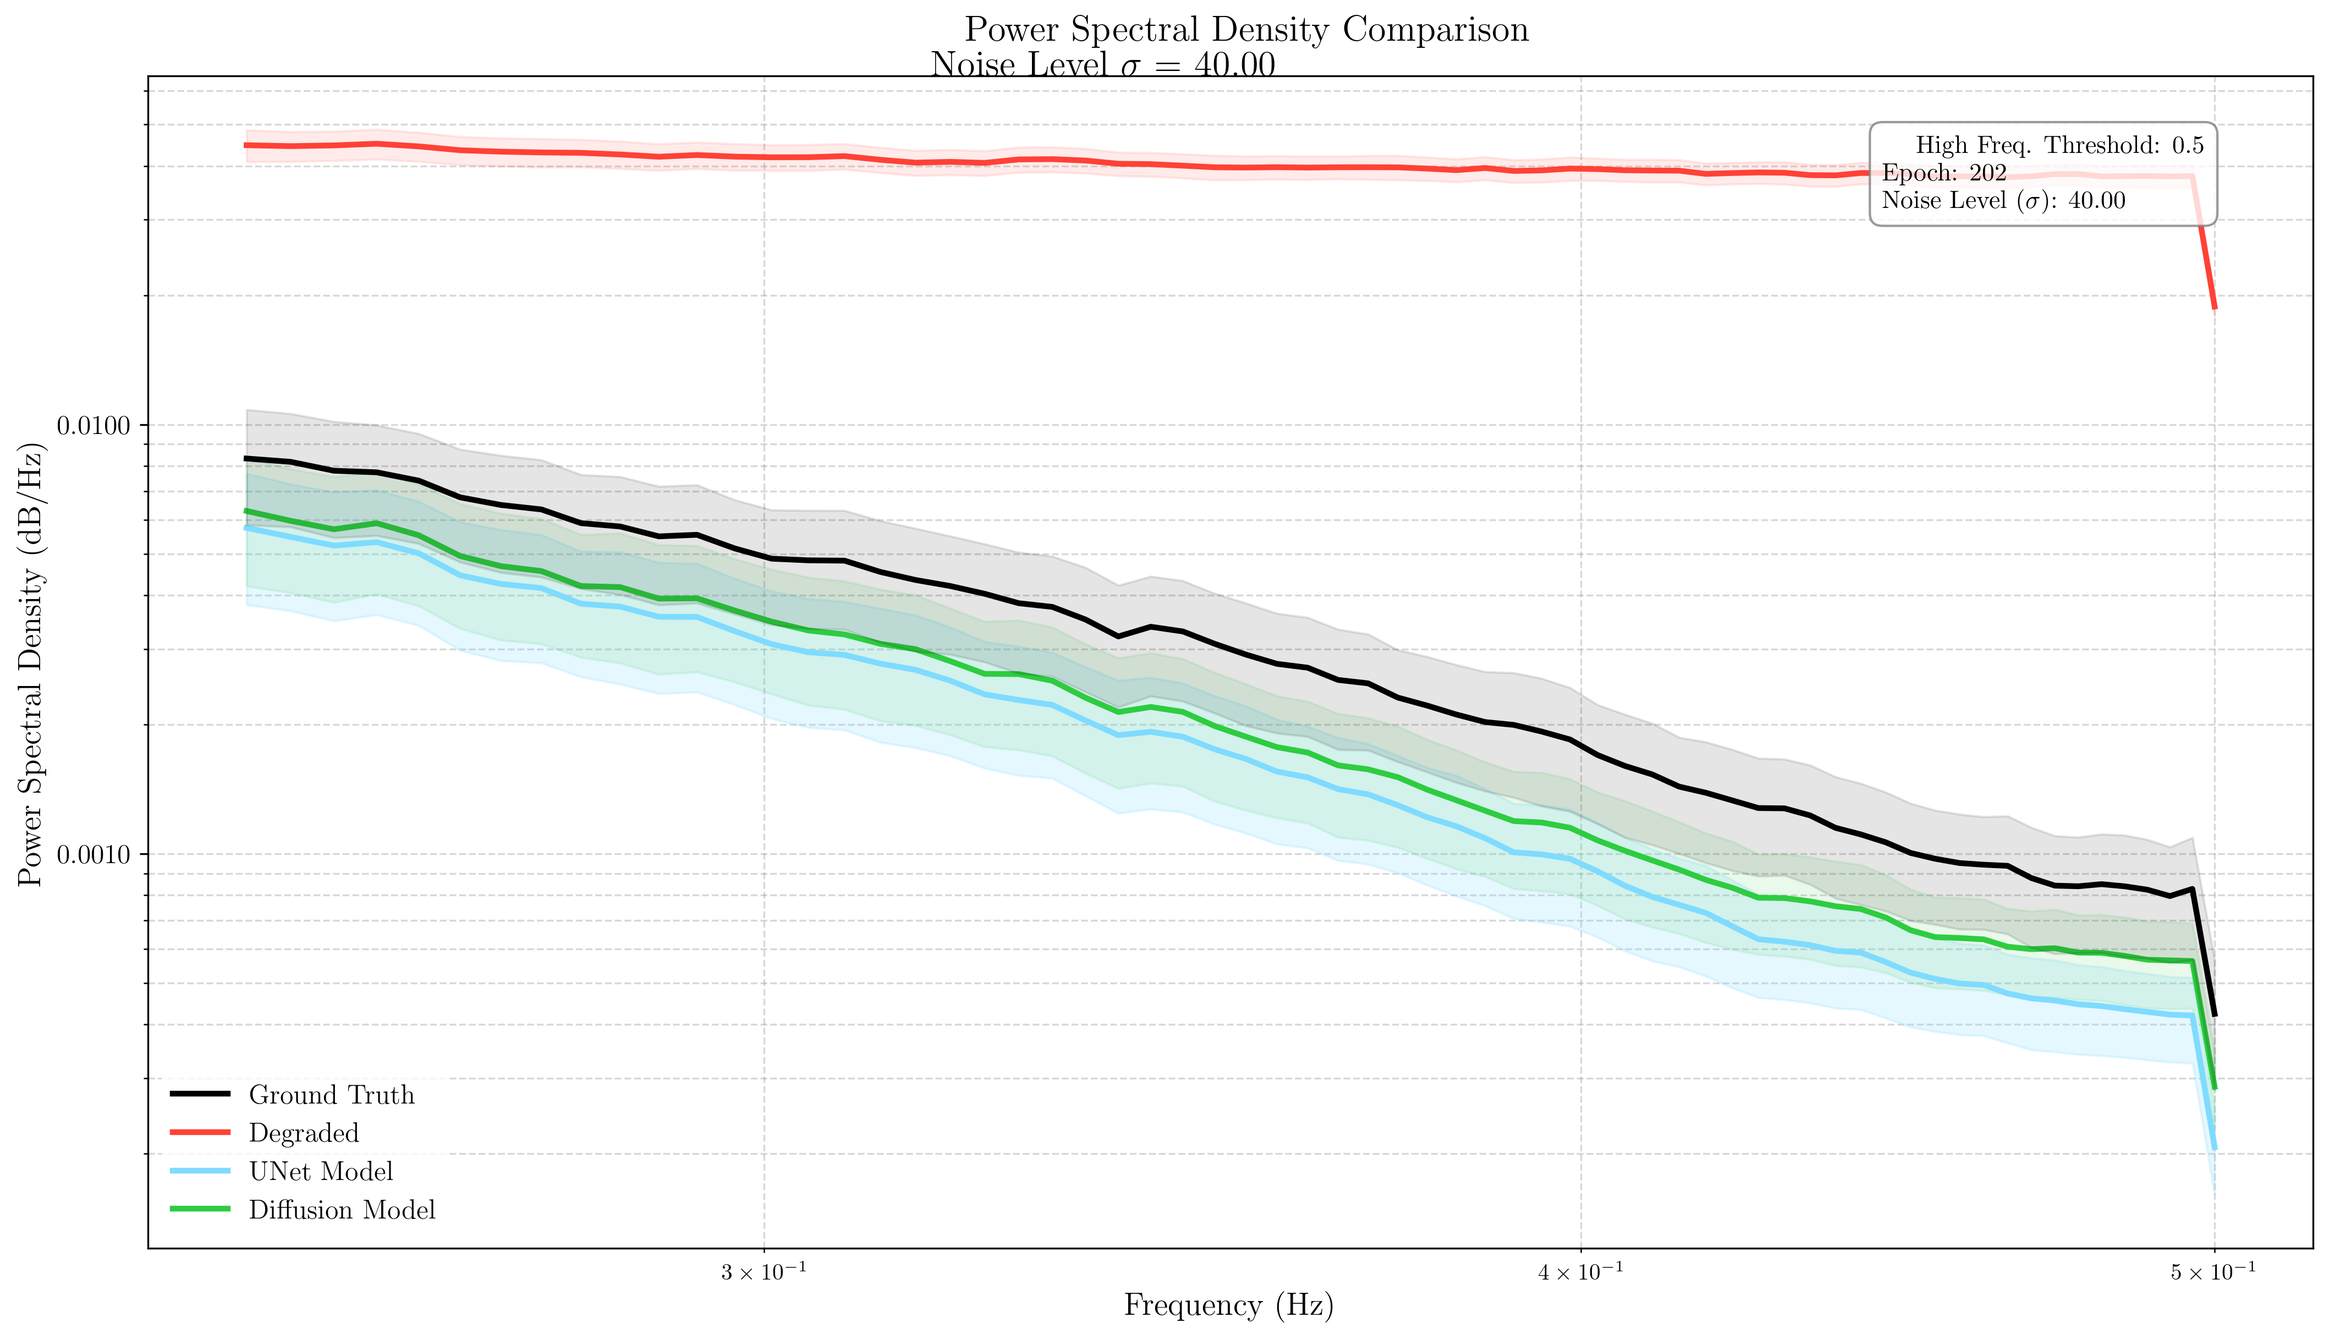
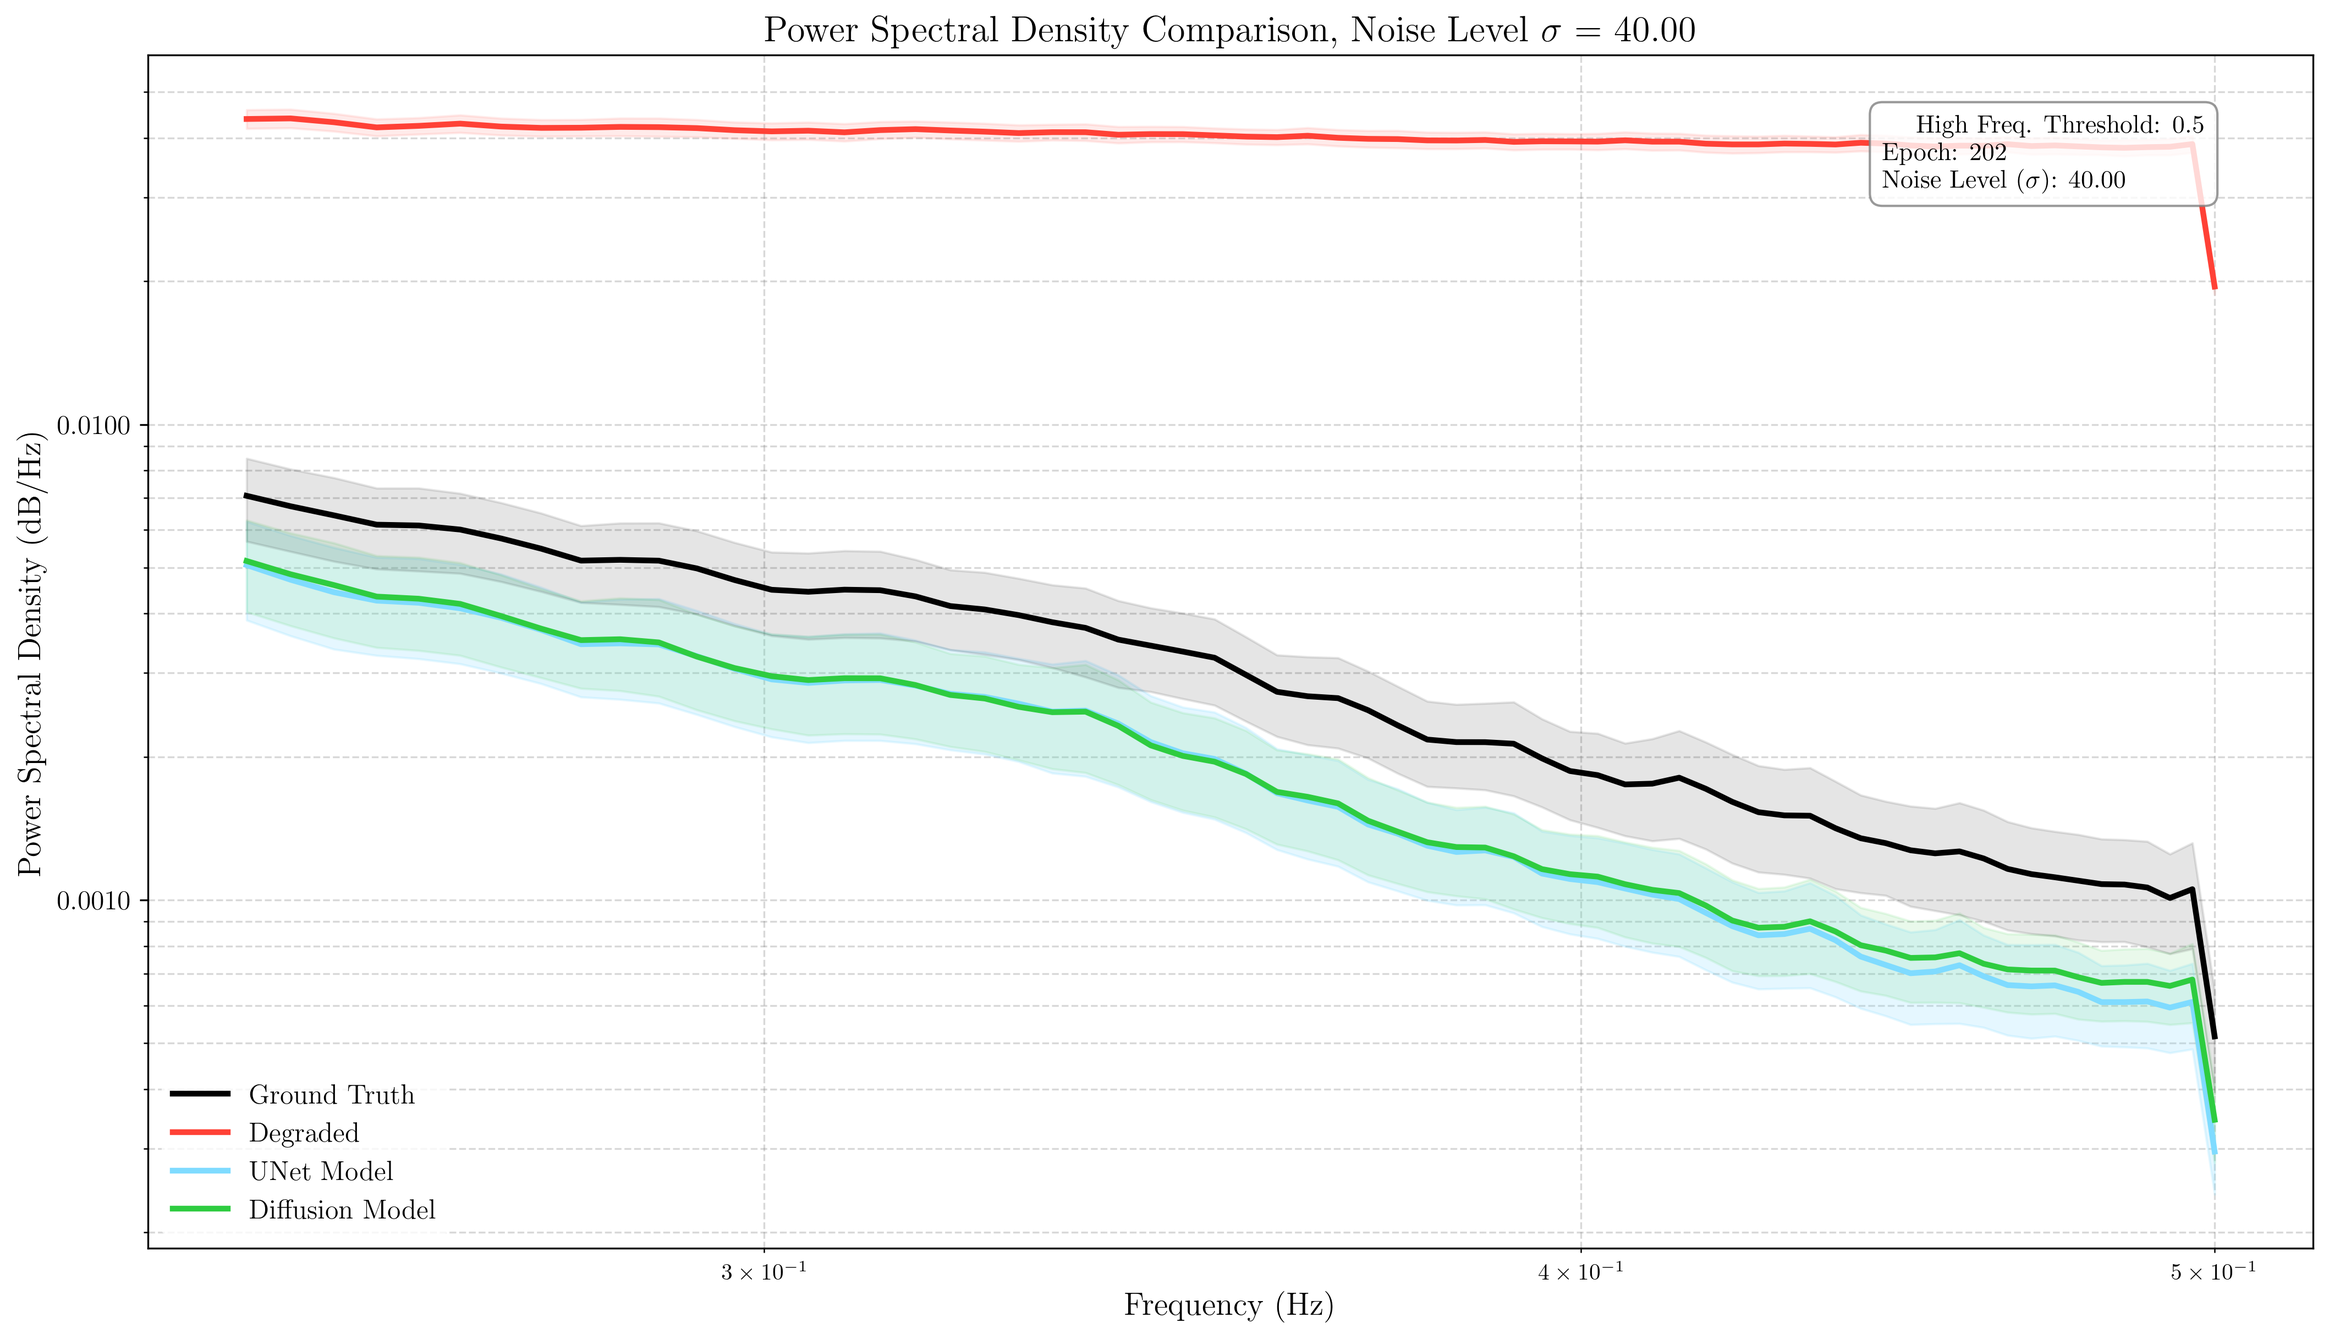
chore: Refactor plot.py to improve image denoising comparison and frequency domain analysis

diff --git a/evaluate_Unet_diffusion/plot.py b/evaluate_Unet_diffusion/plot.py
@@ -56,10 +56,10 @@ def save_example_images(example_images, save_dir):
         for j, (title, img) in enumerate(images_to_plot):
             ax = grid[i*4 + j]
             im = ax.imshow(img, cmap='gray' if img.ndim == 2 else None, vmin=vmin, vmax=vmax)
-            ax.set_title(rf"{title}\\ ($\sigma$ = {sigma})", fontsize=12, fontweight='bold')
+            ax.set_title(rf"{title} ($\sigma = {sigma}$)", fontsize=12, fontweight='bold')
             ax.axis('off')
-            
-    plt.suptitle(r"Image Denoising Comparison Across Noise Levels", fontsize=16, fontweight='bold', y=1)
+         
+    plt.suptitle(r"Image Denoising Comparison Across Noise Levels", fontsize=16, fontweight='bold', y=0.85)
     
     plt.savefig(os.path.join(save_dir, 'example_images_comparison.png'), dpi=300, bbox_inches='tight')
     plt.close()
@@ -305,7 +305,7 @@ def plot_psd_comparison(metrics, last_epoch, save_dir, high_freq_threshold=0.5):
         se_unet = np.std(psd_unet_all, axis=0) / np.sqrt(len(psd_unet_all))
         se_diffusion = np.std(psd_diffusion_all, axis=0) / np.sqrt(len(psd_diffusion_all))
 
-        fig, ax = plt.subplots(figsize=(14, 8), constrained_layout=True)
+        fig, ax = plt.subplots(figsize=(12, 8), constrained_layout=True)
         
         # Plot with error bands
         ax.plot(f_gt[high_freq_idx], avg_psd_gt, label='Ground Truth', color='#000000', linewidth=2.5, zorder=5)
@@ -324,7 +324,7 @@ def plot_psd_comparison(metrics, last_epoch, save_dir, high_freq_threshold=0.5):
         ax.set_ylabel(r'Power Spectral Density (dB/Hz)', fontsize=14, fontweight='bold')
         ax.set_yscale('log')
         ax.set_xscale('log')
-        ax.set_title(rf'Power Spectral Density Comparison\\Noise Level $\sigma$ = {nl:.2f}', fontsize=16, fontweight='bold')
+        ax.set_title(rf'Power Spectral Density Comparison, Noise Level $\sigma$ = {nl:.2f}', fontsize=16, fontweight='bold')
         ax.legend(fontsize=12, loc='lower left', frameon=True, facecolor='white', edgecolor='none')
         ax.grid(True, which="both", ls="--", alpha=0.3, color='gray')
         
@@ -455,3 +455,104 @@ def generate_comparison_plot(metrics, epochs, save_dir, use_bm3d=False):
 
     plt.savefig(os.path.join(save_dir, 'comparison_plot.png'), dpi=300, bbox_inches='tight')
     plt.close(fig)
+
+def save_metrics(metrics, last_epoch, use_bm3d, save_dir):
+    epochs = sorted(set(metrics['epoch']))
+    noise_levels = np.array(metrics['noise_level'])
+    psnr_degraded = np.array(metrics['psnr_degraded'])
+    psnr_diffusion = np.array(metrics['psnr_diffusion'])
+    psnr_unet = np.array(metrics['psnr_unet'])
+    psnr_bm3d = np.array(metrics['psnr_bm3d'])
+    ssim_degraded = np.array(metrics['ssim_degraded'])
+    ssim_diffusion = np.array(metrics['ssim_diffusion'])
+    ssim_unet = np.array(metrics['ssim_unet'])
+    ssim_bm3d = np.array(metrics['ssim_bm3d'])
+    lpips_degraded = np.array(metrics['lpips_degraded'])
+    lpips_diffusion = np.array(metrics['lpips_diffusion'])
+    lpips_unet = np.array(metrics['lpips_unet'])
+    lpips_bm3d = np.array(metrics['lpips_bm3d'])
+
+    unique_noise_levels = sorted(np.unique(noise_levels))
+
+    avg_psnr_degraded = [np.mean(psnr_degraded[noise_levels == nl]) for nl in unique_noise_levels]
+    avg_psnr_diffusion_last = [np.mean(psnr_diffusion[(noise_levels == nl) & (np.array(metrics['epoch']) == last_epoch)]) for nl in unique_noise_levels]
+    avg_psnr_unet = [np.mean(psnr_unet[noise_levels == nl]) for nl in unique_noise_levels]
+    avg_psnr_bm3d = [np.mean(psnr_bm3d[noise_levels == nl]) for nl in unique_noise_levels] if use_bm3d else []
+    avg_ssim_degraded = [np.mean(ssim_degraded[noise_levels == nl]) for nl in unique_noise_levels]
+    avg_ssim_diffusion_last = [np.mean(ssim_diffusion[(noise_levels == nl) & (np.array(metrics['epoch']) == last_epoch)]) for nl in unique_noise_levels]
+    avg_ssim_unet = [np.mean(ssim_unet[noise_levels == nl]) for nl in unique_noise_levels]
+    avg_ssim_bm3d = [np.mean(ssim_bm3d[noise_levels == nl]) for nl in unique_noise_levels] if use_bm3d else []
+    avg_lpips_degraded = [np.mean(lpips_degraded[noise_levels == nl]) for nl in unique_noise_levels]
+    avg_lpips_diffusion_last = [np.mean(lpips_diffusion[(noise_levels == nl) & (np.array(metrics['epoch']) == last_epoch)]) for nl in unique_noise_levels]
+    avg_lpips_unet = [np.mean(lpips_unet[noise_levels == nl]) for nl in unique_noise_levels]
+    avg_lpips_bm3d = [np.mean(lpips_bm3d[noise_levels == nl]) for nl in unique_noise_levels] if use_bm3d else []
+
+    fig, axs = plt.subplots(3, 2, figsize=(20, 18))
+
+    axs[0, 0].plot(unique_noise_levels, avg_psnr_degraded, 'o-', label='Degraded', color='red')
+    axs[0, 0].plot(unique_noise_levels, avg_psnr_unet, 'o-', label='UNet Model', color='purple')
+    axs[0, 0].plot(unique_noise_levels, avg_psnr_diffusion_last, 'o-', label=f'Diffusion Model (Epoch {last_epoch})', color='green')
+    if use_bm3d:
+        axs[0, 0].plot(unique_noise_levels, avg_psnr_bm3d, 'o-', label='BM3D', color='blue')
+    axs[0, 0].set_xlabel('Noise Standard Deviation')
+    axs[0, 0].set_ylabel('PSNR')
+    axs[0, 0].set_title('PSNR value variation curve')
+    axs[0, 0].legend()
+    axs[0, 0].grid()
+
+    axs[1, 0].plot(unique_noise_levels, avg_ssim_degraded, 'o-', label='Degraded', color='red')
+    axs[1, 0].plot(unique_noise_levels, avg_ssim_unet, 'o-', label='UNet Model', color='purple')
+    axs[1, 0].plot(unique_noise_levels, avg_ssim_diffusion_last, 'o-', label=f'Diffusion Model (Epoch {last_epoch})', color='green')
+    if use_bm3d:
+        axs[1, 0].plot(unique_noise_levels, avg_ssim_bm3d, 'o-', label='BM3D', color='blue')
+    axs[1, 0].set_xlabel('Noise Standard Deviation')
+    axs[1, 0].set_ylabel('SSIM')
+    axs[1, 0].set_title('SSIM value variation curve')
+    axs[1, 0].legend()
+    axs[1, 0].grid()
+
+    axs[2, 0].plot(unique_noise_levels, avg_lpips_degraded, 'o-', label='Degraded', color='red')
+    axs[2, 0].plot(unique_noise_levels, avg_lpips_unet, 'o-', label='UNet Model', color='purple')
+    axs[2, 0].plot(unique_noise_levels, avg_lpips_diffusion_last, 'o-', label=f'Diffusion Model (Epoch {last_epoch})', color='green')
+    if use_bm3d:
+        axs[2, 0].plot(unique_noise_levels, avg_lpips_bm3d, 'o-', label='BM3D', color='blue')
+    axs[2, 0].set_xlabel('Noise Standard Deviation')
+    axs[2, 0].set_ylabel('LPIPS')
+    axs[2, 0].set_title('LPIPS value variation curve')
+    axs[2, 0].legend()
+    axs[2, 0].grid()
+
+    colors = ['blue', 'orange', 'cyan', 'magenta', 'black', 'yellow', 'green', 'red']
+    for idx, epoch in enumerate(epochs):
+        epoch_indices = [i for i, e in enumerate(metrics['epoch']) if e == epoch]
+        unique_noise_levels = sorted(np.unique(noise_levels[epoch_indices]))
+
+        avg_psnr_diffusion = [np.mean(psnr_diffusion[epoch_indices][noise_levels[epoch_indices] == nl]) for nl in unique_noise_levels]
+        avg_ssim_diffusion = [np.mean(ssim_diffusion[epoch_indices][noise_levels[epoch_indices] == nl]) for nl in unique_noise_levels]
+        avg_lpips_diffusion = [np.mean(lpips_diffusion[epoch_indices][noise_levels[epoch_indices] == nl]) for nl in unique_noise_levels]
+
+        axs[0, 1].plot(unique_noise_levels, avg_psnr_diffusion, 'o-', label=f'Diffusion Model (Epoch {epoch})', color=colors[idx % len(colors)])
+        axs[1, 1].plot(unique_noise_levels, avg_ssim_diffusion, 'o-', label=f'Diffusion Model (Epoch {epoch})', color=colors[idx % len(colors)])
+        axs[2, 1].plot(unique_noise_levels, avg_lpips_diffusion, 'o-', label=f'Diffusion Model (Epoch {epoch})', color=colors[idx % len(colors)])
+
+    axs[0, 1].set_xlabel('Noise Standard Deviation')
+    axs[0, 1].set_ylabel('PSNR')
+    axs[0, 1].set_title('PSNR value variation curve (Diffusion Model)')
+    axs[0, 1].legend()
+    axs[0, 1].grid()
+
+    axs[1, 1].set_xlabel('Noise Standard Deviation')
+    axs[1, 1].set_ylabel('SSIM')
+    axs[1, 1].set_title('SSIM value variation curve (Diffusion Model)')
+    axs[1, 1].legend()
+    axs[1, 1].grid()
+
+    axs[2, 1].set_xlabel('Noise Standard Deviation')
+    axs[2, 1].set_ylabel('LPIPS')
+    axs[2, 1].set_title('LPIPS value variation curve (Diffusion Model)')
+    axs[2, 1].legend()
+    axs[2, 1].grid()
+
+    plt.tight_layout()
+    plt.savefig(os.path.join(save_dir, 'metrics.png'))
+    plt.close()

diff --git a/evaluate_Unet_diffusion/evaluate_model.py b/evaluate_Unet_diffusion/evaluate_model.py
@@ -9,7 +9,7 @@ from tqdm import tqdm
 import lpips
 from DISTS_pytorch import DISTS
 import time
-from plot import save_dists, save_inference_time_plot, generate_comparison_plot, save_example_images, save_heatmaps, save_histograms_of_differences, save_frequency_domain_analysis, save_frequency_domain_analysis_multiple_epochs, plot_psd_comparison
+from plot import save_dists, save_inference_time_plot, generate_comparison_plot, save_example_images, save_heatmaps, save_histograms_of_differences, save_frequency_domain_analysis, save_frequency_domain_analysis_multiple_epochs, plot_psd_comparison, save_metrics
 
 project_root = os.path.abspath(os.path.join(os.path.dirname(__file__), '..'))
 sys.path.append(project_root)
@@ -305,108 +305,6 @@ def evaluate_model_and_plot(epochs, diffusion_model_paths, unet_model_path, val_
 
     # Generate the comparison plot
     generate_comparison_plot(metrics, epochs, save_dir)
-
-
-def save_metrics(metrics, last_epoch, use_bm3d, save_dir):
-    epochs = sorted(set(metrics['epoch']))
-    noise_levels = np.array(metrics['noise_level'])
-    psnr_degraded = np.array(metrics['psnr_degraded'])
-    psnr_diffusion = np.array(metrics['psnr_diffusion'])
-    psnr_unet = np.array(metrics['psnr_unet'])
-    psnr_bm3d = np.array(metrics['psnr_bm3d'])
-    ssim_degraded = np.array(metrics['ssim_degraded'])
-    ssim_diffusion = np.array(metrics['ssim_diffusion'])
-    ssim_unet = np.array(metrics['ssim_unet'])
-    ssim_bm3d = np.array(metrics['ssim_bm3d'])
-    lpips_degraded = np.array(metrics['lpips_degraded'])
-    lpips_diffusion = np.array(metrics['lpips_diffusion'])
-    lpips_unet = np.array(metrics['lpips_unet'])
-    lpips_bm3d = np.array(metrics['lpips_bm3d'])
-
-    unique_noise_levels = sorted(np.unique(noise_levels))
-
-    avg_psnr_degraded = [np.mean(psnr_degraded[noise_levels == nl]) for nl in unique_noise_levels]
-    avg_psnr_diffusion_last = [np.mean(psnr_diffusion[(noise_levels == nl) & (np.array(metrics['epoch']) == last_epoch)]) for nl in unique_noise_levels]
-    avg_psnr_unet = [np.mean(psnr_unet[noise_levels == nl]) for nl in unique_noise_levels]
-    avg_psnr_bm3d = [np.mean(psnr_bm3d[noise_levels == nl]) for nl in unique_noise_levels] if use_bm3d else []
-    avg_ssim_degraded = [np.mean(ssim_degraded[noise_levels == nl]) for nl in unique_noise_levels]
-    avg_ssim_diffusion_last = [np.mean(ssim_diffusion[(noise_levels == nl) & (np.array(metrics['epoch']) == last_epoch)]) for nl in unique_noise_levels]
-    avg_ssim_unet = [np.mean(ssim_unet[noise_levels == nl]) for nl in unique_noise_levels]
-    avg_ssim_bm3d = [np.mean(ssim_bm3d[noise_levels == nl]) for nl in unique_noise_levels] if use_bm3d else []
-    avg_lpips_degraded = [np.mean(lpips_degraded[noise_levels == nl]) for nl in unique_noise_levels]
-    avg_lpips_diffusion_last = [np.mean(lpips_diffusion[(noise_levels == nl) & (np.array(metrics['epoch']) == last_epoch)]) for nl in unique_noise_levels]
-    avg_lpips_unet = [np.mean(lpips_unet[noise_levels == nl]) for nl in unique_noise_levels]
-    avg_lpips_bm3d = [np.mean(lpips_bm3d[noise_levels == nl]) for nl in unique_noise_levels] if use_bm3d else []
-
-    fig, axs = plt.subplots(3, 2, figsize=(20, 18))
-
-    axs[0, 0].plot(unique_noise_levels, avg_psnr_degraded, 'o-', label='Degraded', color='red')
-    axs[0, 0].plot(unique_noise_levels, avg_psnr_unet, 'o-', label='UNet Model', color='purple')
-    axs[0, 0].plot(unique_noise_levels, avg_psnr_diffusion_last, 'o-', label=f'Diffusion Model (Epoch {last_epoch})', color='green')
-    if use_bm3d:
-        axs[0, 0].plot(unique_noise_levels, avg_psnr_bm3d, 'o-', label='BM3D', color='blue')
-    axs[0, 0].set_xlabel('Noise Standard Deviation')
-    axs[0, 0].set_ylabel('PSNR')
-    axs[0, 0].set_title('PSNR value variation curve')
-    axs[0, 0].legend()
-    axs[0, 0].grid()
-
-    axs[1, 0].plot(unique_noise_levels, avg_ssim_degraded, 'o-', label='Degraded', color='red')
-    axs[1, 0].plot(unique_noise_levels, avg_ssim_unet, 'o-', label='UNet Model', color='purple')
-    axs[1, 0].plot(unique_noise_levels, avg_ssim_diffusion_last, 'o-', label=f'Diffusion Model (Epoch {last_epoch})', color='green')
-    if use_bm3d:
-        axs[1, 0].plot(unique_noise_levels, avg_ssim_bm3d, 'o-', label='BM3D', color='blue')
-    axs[1, 0].set_xlabel('Noise Standard Deviation')
-    axs[1, 0].set_ylabel('SSIM')
-    axs[1, 0].set_title('SSIM value variation curve')
-    axs[1, 0].legend()
-    axs[1, 0].grid()
-
-    axs[2, 0].plot(unique_noise_levels, avg_lpips_degraded, 'o-', label='Degraded', color='red')
-    axs[2, 0].plot(unique_noise_levels, avg_lpips_unet, 'o-', label='UNet Model', color='purple')
-    axs[2, 0].plot(unique_noise_levels, avg_lpips_diffusion_last, 'o-', label=f'Diffusion Model (Epoch {last_epoch})', color='green')
-    if use_bm3d:
-        axs[2, 0].plot(unique_noise_levels, avg_lpips_bm3d, 'o-', label='BM3D', color='blue')
-    axs[2, 0].set_xlabel('Noise Standard Deviation')
-    axs[2, 0].set_ylabel('LPIPS')
-    axs[2, 0].set_title('LPIPS value variation curve')
-    axs[2, 0].legend()
-    axs[2, 0].grid()
-
-    colors = ['blue', 'orange', 'cyan', 'magenta', 'black', 'yellow', 'green', 'red']
-    for idx, epoch in enumerate(epochs):
-        epoch_indices = [i for i, e in enumerate(metrics['epoch']) if e == epoch]
-        unique_noise_levels = sorted(np.unique(noise_levels[epoch_indices]))
-
-        avg_psnr_diffusion = [np.mean(psnr_diffusion[epoch_indices][noise_levels[epoch_indices] == nl]) for nl in unique_noise_levels]
-        avg_ssim_diffusion = [np.mean(ssim_diffusion[epoch_indices][noise_levels[epoch_indices] == nl]) for nl in unique_noise_levels]
-        avg_lpips_diffusion = [np.mean(lpips_diffusion[epoch_indices][noise_levels[epoch_indices] == nl]) for nl in unique_noise_levels]
-
-        axs[0, 1].plot(unique_noise_levels, avg_psnr_diffusion, 'o-', label=f'Diffusion Model (Epoch {epoch})', color=colors[idx % len(colors)])
-        axs[1, 1].plot(unique_noise_levels, avg_ssim_diffusion, 'o-', label=f'Diffusion Model (Epoch {epoch})', color=colors[idx % len(colors)])
-        axs[2, 1].plot(unique_noise_levels, avg_lpips_diffusion, 'o-', label=f'Diffusion Model (Epoch {epoch})', color=colors[idx % len(colors)])
-
-    axs[0, 1].set_xlabel('Noise Standard Deviation')
-    axs[0, 1].set_ylabel('PSNR')
-    axs[0, 1].set_title('PSNR value variation curve (Diffusion Model)')
-    axs[0, 1].legend()
-    axs[0, 1].grid()
-
-    axs[1, 1].set_xlabel('Noise Standard Deviation')
-    axs[1, 1].set_ylabel('SSIM')
-    axs[1, 1].set_title('SSIM value variation curve (Diffusion Model)')
-    axs[1, 1].legend()
-    axs[1, 1].grid()
-
-    axs[2, 1].set_xlabel('Noise Standard Deviation')
-    axs[2, 1].set_ylabel('LPIPS')
-    axs[2, 1].set_title('LPIPS value variation curve (Diffusion Model)')
-    axs[2, 1].legend()
-    axs[2, 1].grid()
-
-    plt.tight_layout()
-    plt.savefig(os.path.join(save_dir, 'metrics.png'))
-    plt.close()
 
 if __name__ == "__main__":
     device = torch.device("cuda" if torch.cuda.is_available() else "mps")
